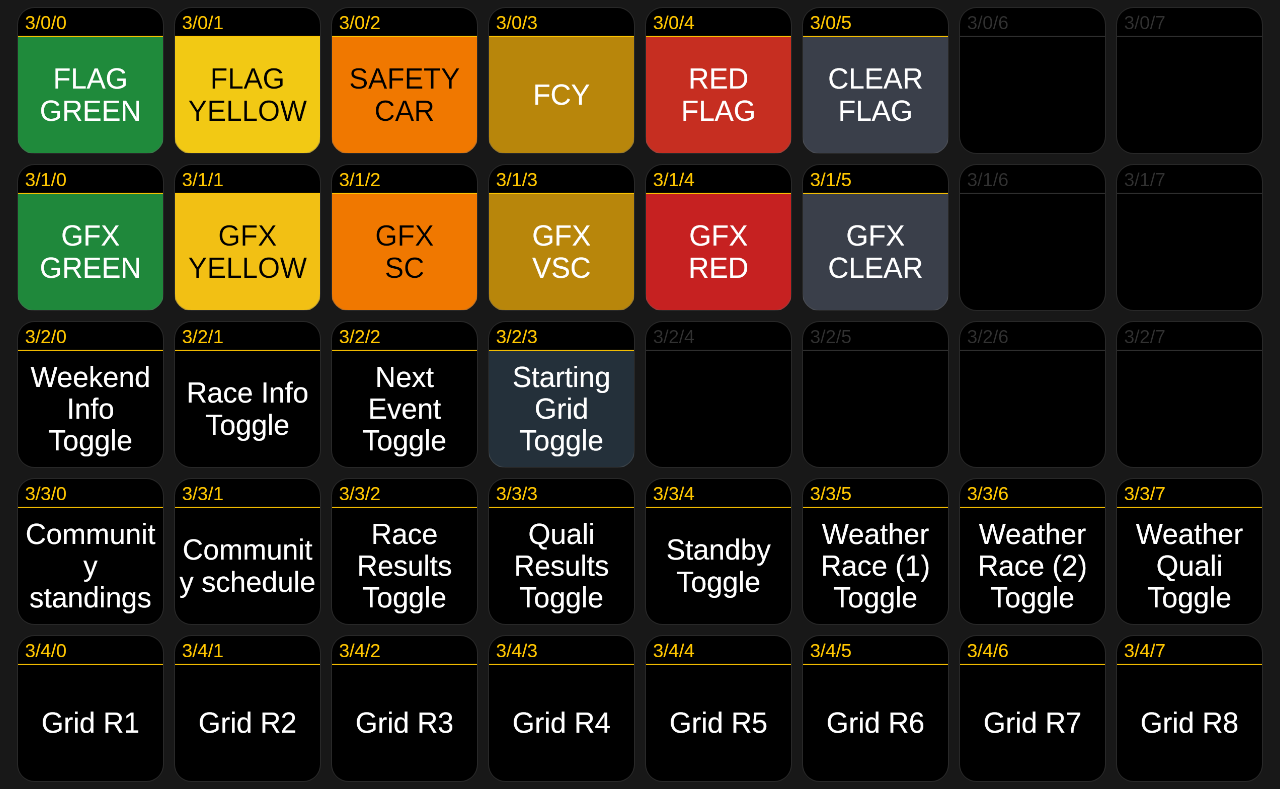
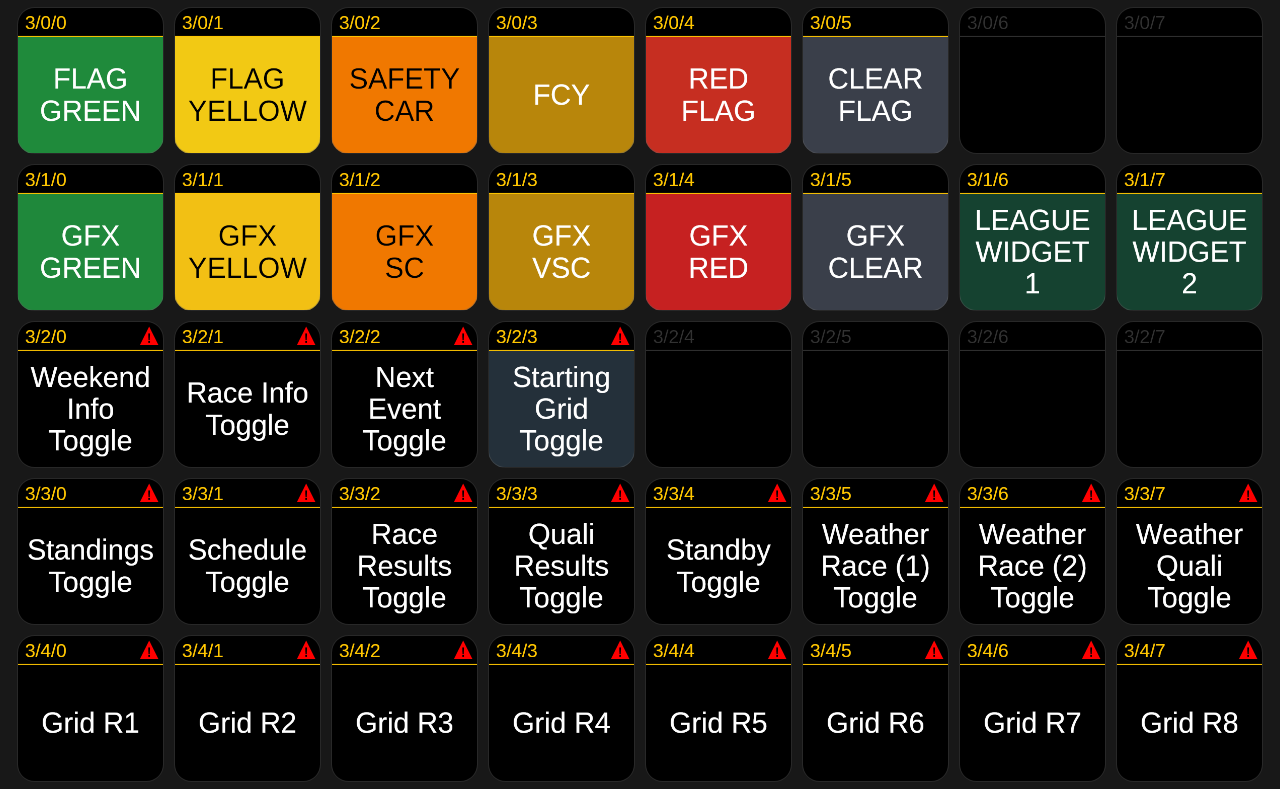
feat(companion): LEAGUE WIDGET 1 and 2 toggle the league widgets on page 3

diff --git a/tests/test_league_widgets.py b/tests/test_league_widgets.py
@@ -522,6 +522,16 @@ def t_a_profile_edit_reloads_the_sender_settings():
         assert live.client._reload, "an edited profile.env applies without a relay restart"
 
 
+def t_companion_toggles_the_first_two_widgets_with_a_get_route():
+    with open(os.path.join(ROOT, "src", "companion", "racecast-buttons.companionconfig"), encoding="utf-8") as fh:
+        page = json.load(fh)["pages"]["3"]["controls"]["1"]
+    for col, n in (("6", 1), ("7", 2)):
+        (action,) = page[col]["steps"]["0"]["action_sets"]["down"]
+        assert action["definitionId"] == "get", "a Companion button sends no body: it must be a GET"
+        assert action["options"]["url"]["value"] == f"http://127.0.0.1:8088/league/widget/{n}/toggle", action
+        assert page[col]["style"]["text"] == f"LEAGUE\nWIDGET {n}"
+
+
 # The overlay renderer
 
 _DOM = r"""
